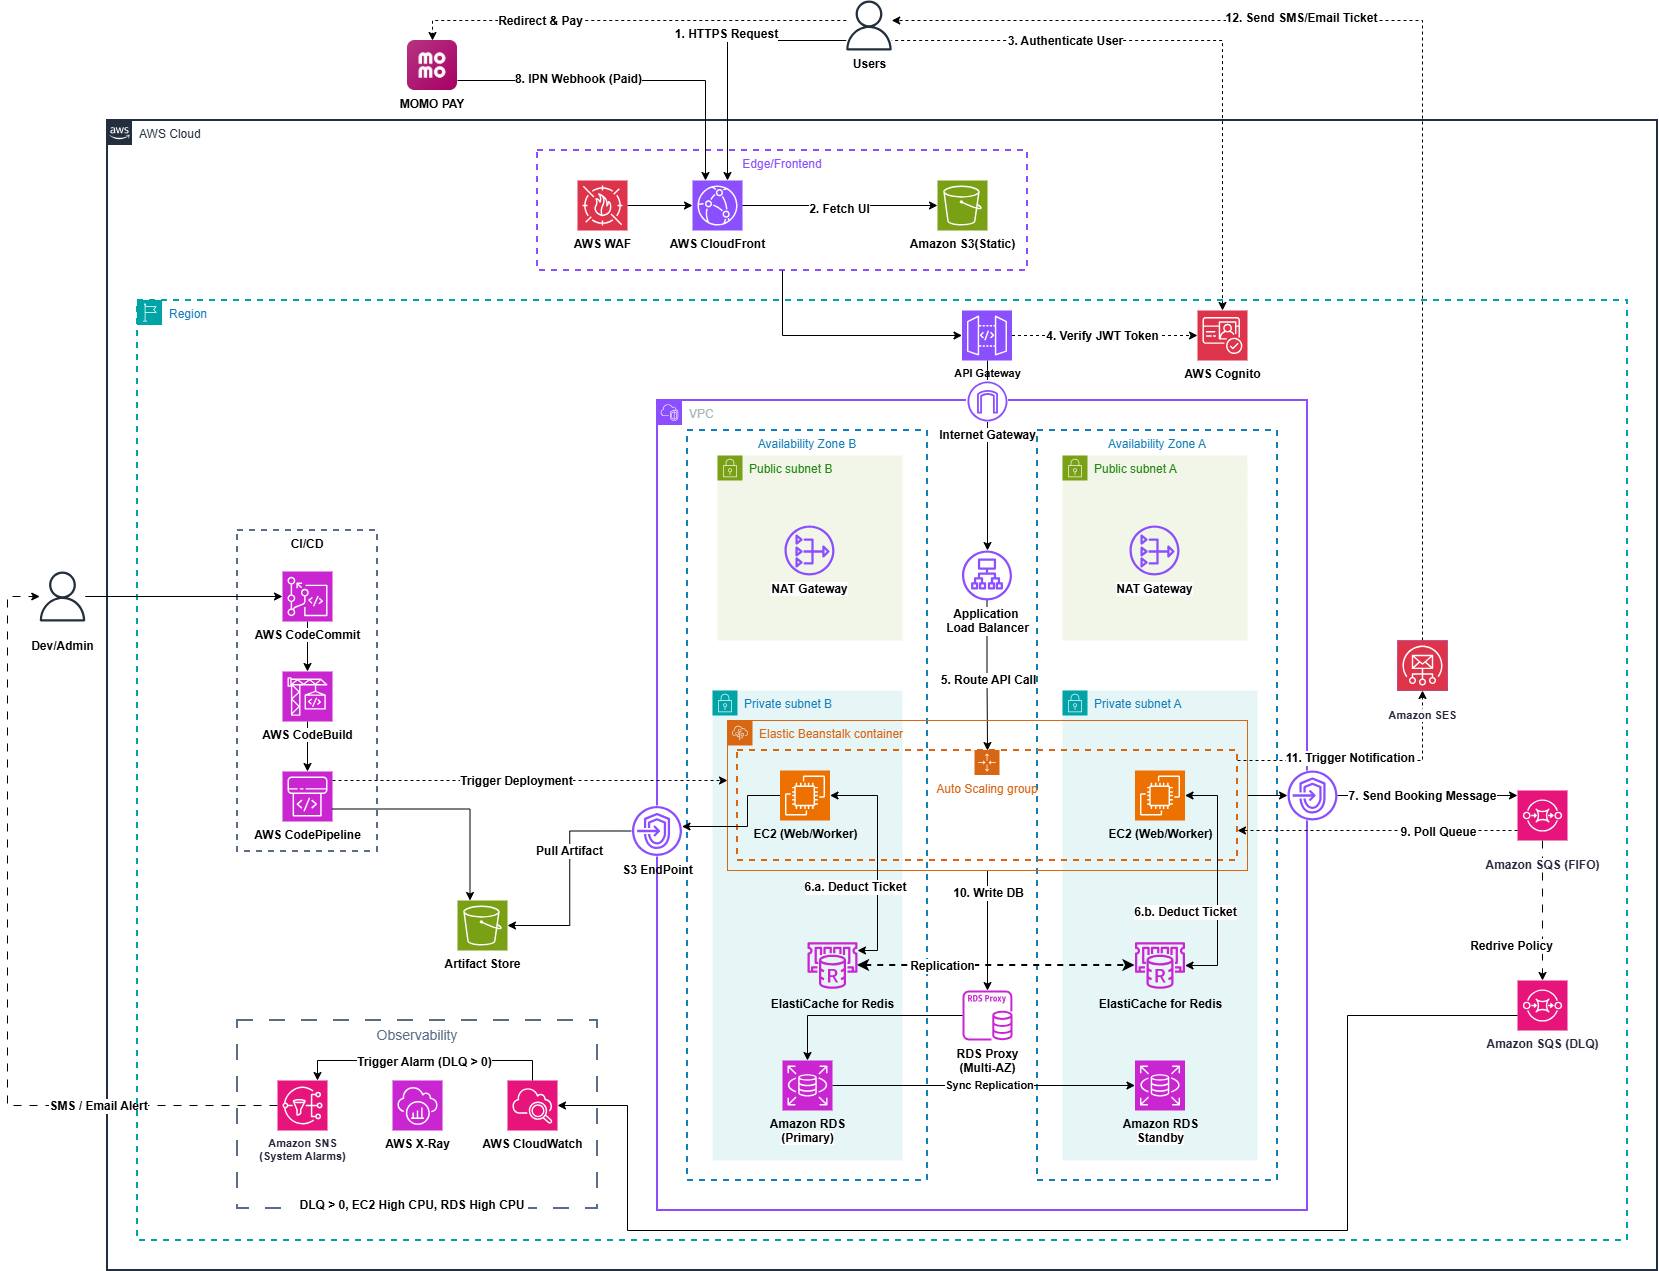
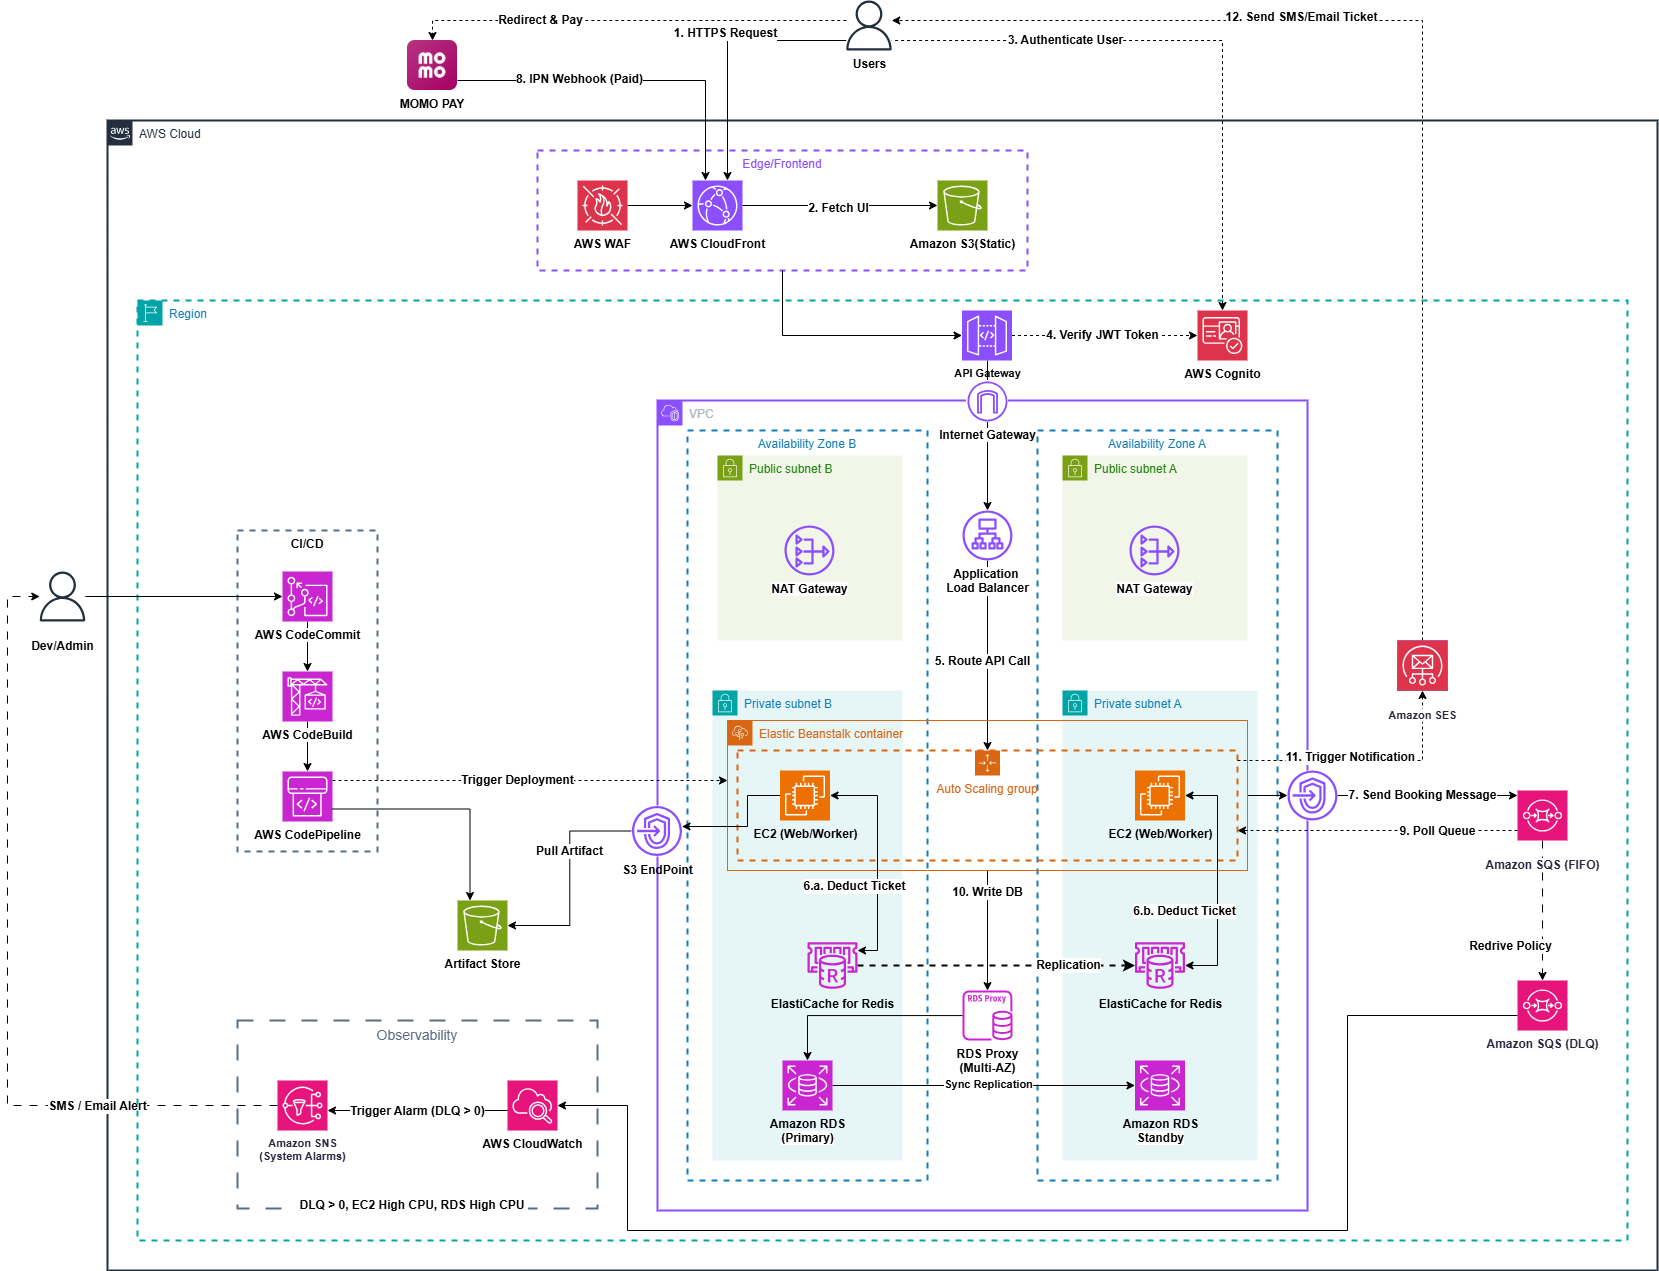
update21

diff --git a/themes/hugo-theme-learn/exampleSite/layouts/partials/logo.html b/themes/hugo-theme-learn/exampleSite/layouts/partials/logo.html
@@ -1,4 +1,4 @@
-<a id="logo" href="{{ .Site.BaseURL }}">
+<a id="logo" href="{{ "" | relLangURL }}">
   <svg
     id="grav-logo"
     version="1.1"

diff --git a/content/4-EventParticipated/_index.vi.md b/content/4-EventParticipated/_index.vi.md
@@ -37,4 +37,3 @@ Trong quá trình thực tập, em đã tham gia 3 events, với mỗi event là
 &emsp;**Địa điểm:** Tầng 26, tòa nhà Bitexco, số 02 đường Hải Triều, phường Sài Gòn, thành phố Hồ Chí Minh
 
 &emsp;**Vai trò trong sự kiện:** Người tham dự 
-